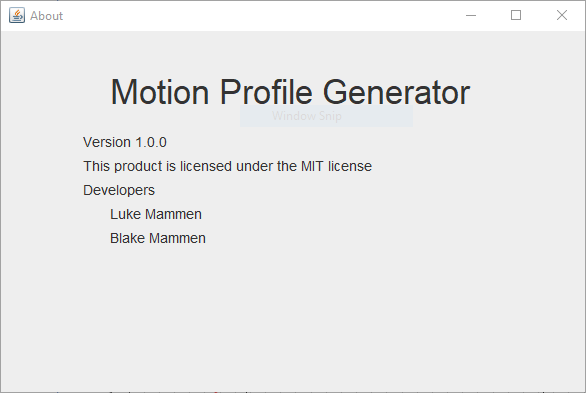
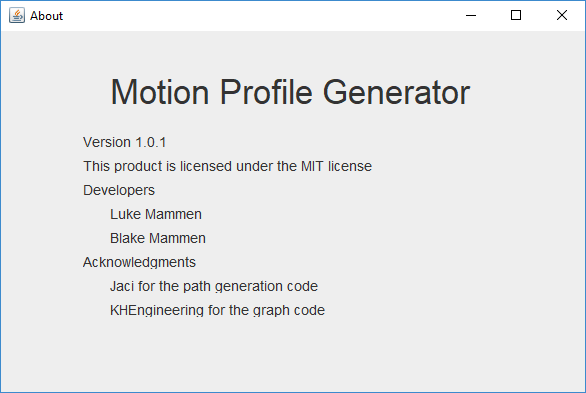
Update Readme and Changelog

diff --git a/README.md b/README.md
@@ -83,5 +83,5 @@ Generate Motion Profiles to follow with a Talon SRX
 ## Acknowledgments
 ---
 
-- [Jaci](https://github.com/JacisNonsense/Pathfinder) for her Pathfinder class
-- [KHEngineering](https://github.com/KHEngineering/SmoothPathPlanner) for his graphing class
+- [Jaci](https://github.com/JacisNonsense/Pathfinder) for the path generation code
+- [KHEngineering](https://github.com/KHEngineering/SmoothPathPlanner) for the graph code

diff --git a/CHANGELOG.md b/CHANGELOG.md
@@ -5,6 +5,9 @@ The format is based on [Keep a Changelog](http://keepachangelog.com/en/1.0.0/)
 and this project adheres to [Semantic Versioning](http://semver.org/spec/v2.0.0.html).
 
 ## [Unreleased]
+### Added
+- Ability to replace existing file when saving
+
 ### Changed
 - Moved Velocity Graph to the tabbed pane
 - Reworked Saving UX to make it more user friendly
